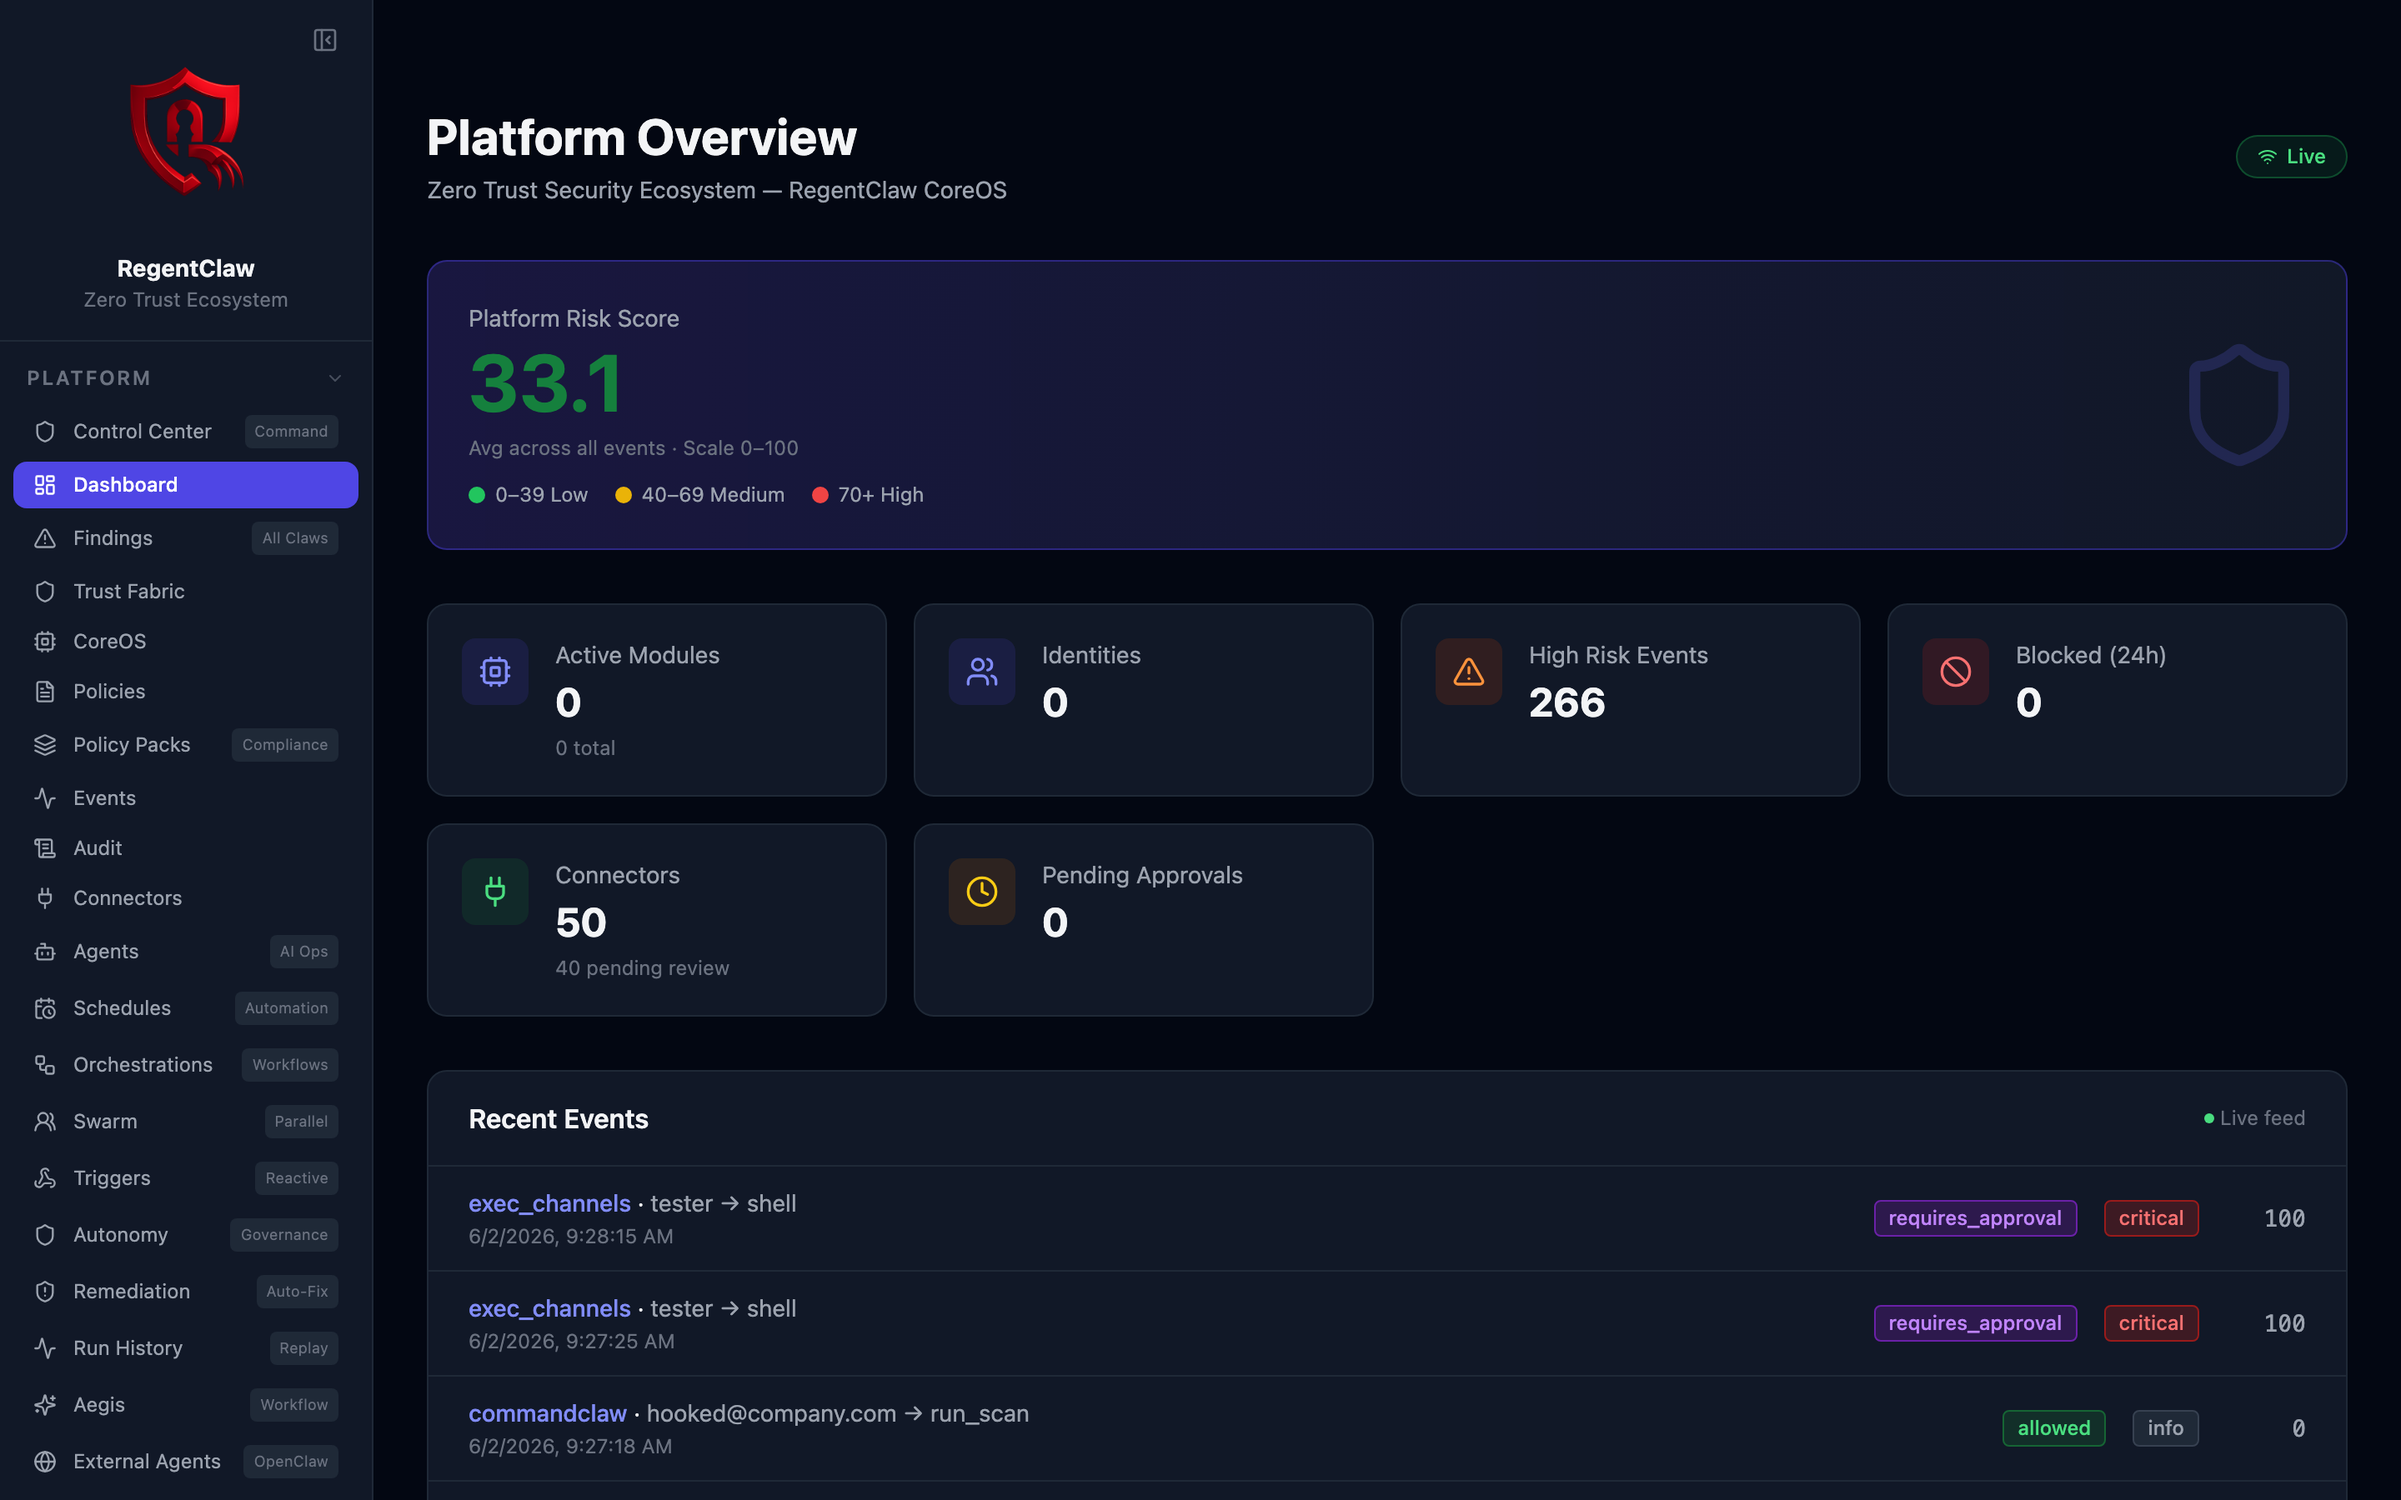
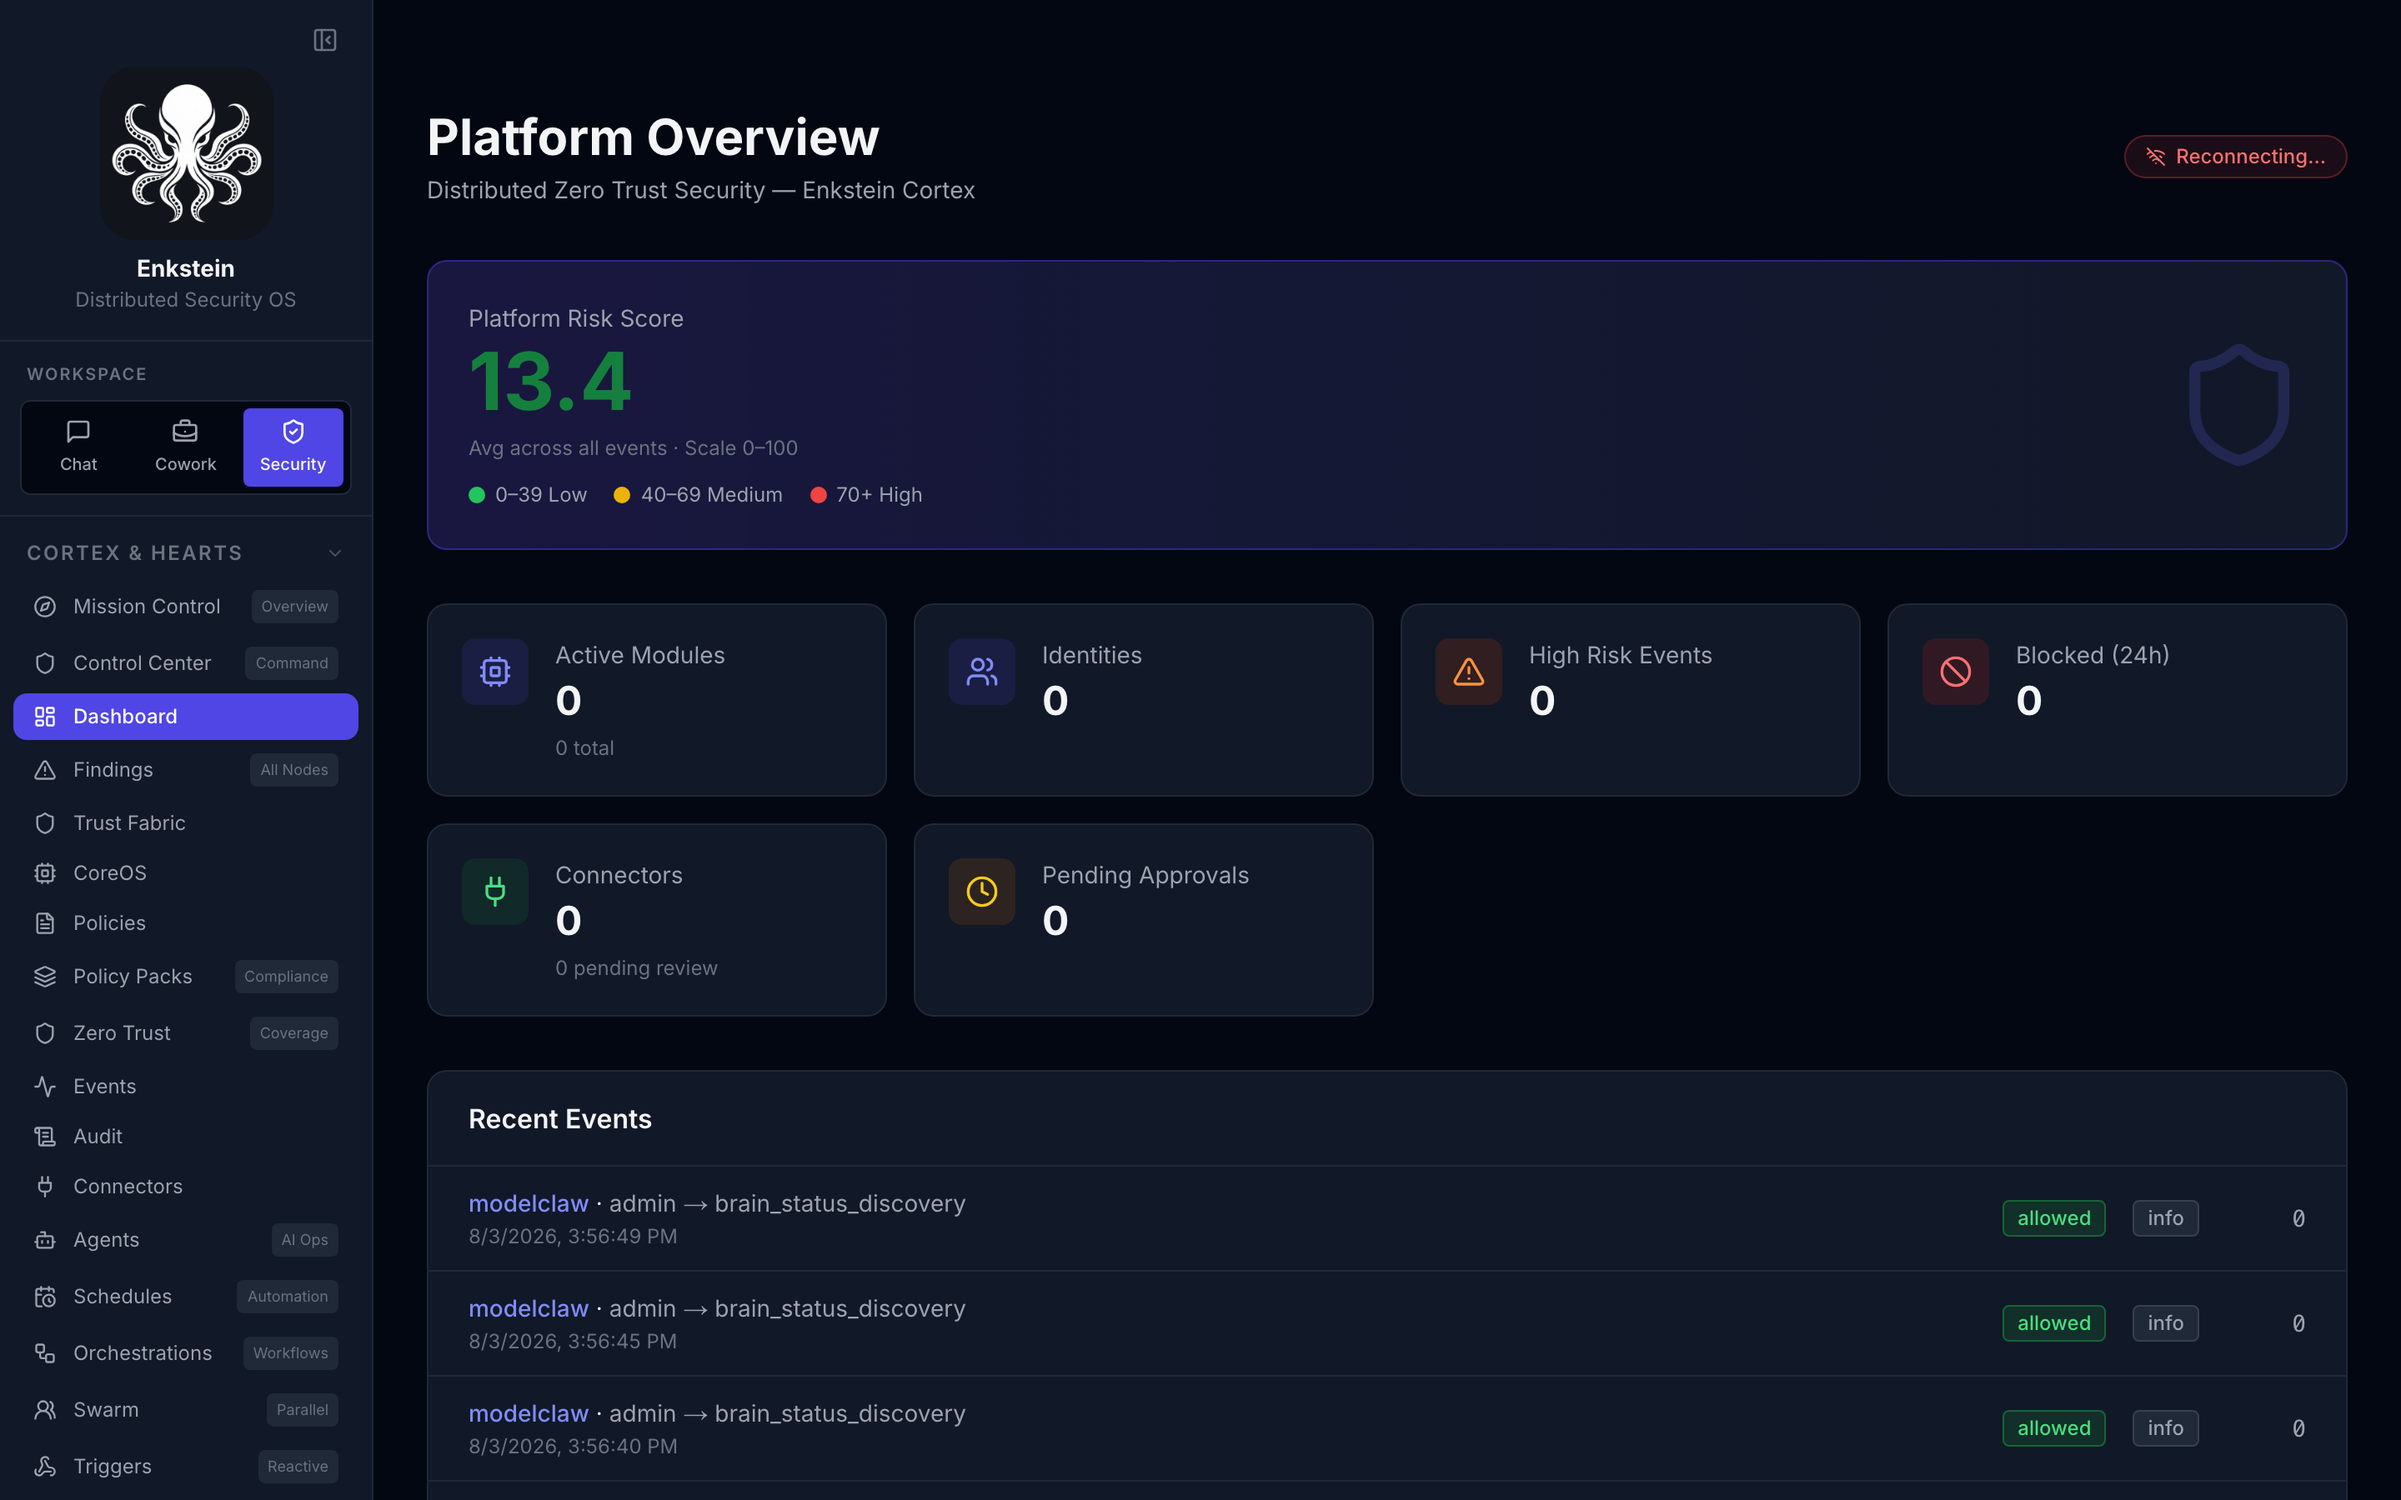
Recapture screenshots as Enkstein and fix the live event feed
Every screenshot still showed the RegentClaw logo, sidebar, and claw
naming from before the rename. Recapture all of them against the running
app, add Chat, Cowork, Brain Connections, Security, and Zero Trust, and
lead the README table with the workspace rather than the dashboard.

The capture script authenticated only /auth/me, so data calls returned
401 and the shots showed empty panels; it now uses a real signed token
and refuses to save a screenshot of the login page.

Two real bugs surfaced while doing this. The dashboard and Trust Fabric
rendered raw claw identifiers instead of Capability Node names, and the
WebSocket hardcoded port 8000 while the launcher picks a free port, so
the live feed showed Reconnecting forever. The port now comes from
/api/runtime-config.

Add a 90-second demo video script.

diff --git a/frontend/src/hooks/useWebSocket.ts b/frontend/src/hooks/useWebSocket.ts
@@ -38,13 +38,33 @@ type Handler = (data: Record<string, unknown>) => void;
 export type WSStatus = 'connecting' | 'connected' | 'disconnected' | 'failed';
 
 // The backend WebSocket URL.
-// In local dev the Next.js proxy doesn't forward WS upgrades, so we hit the
-// backend port directly.  For production, point this at your load balancer.
+// Next does not forward WS upgrades, so the browser connects to the backend
+// port directly. The packaged launcher picks a free port at start time rather
+// than always using 8000, so the port is discovered from /api/runtime-config
+// (see `resolveWsPort`) instead of being assumed. For a hosted deployment,
+// set NEXT_PUBLIC_WS_URL to the load balancer.
+let discoveredWsPort: string | null = null;
+
+export async function resolveWsPort(): Promise<void> {
+  if (discoveredWsPort || process.env.NEXT_PUBLIC_WS_URL) return;
+  try {
+    const response = await fetch('/api/runtime-config', { cache: 'no-store' });
+    if (!response.ok) return;
+    const config = await response.json();
+    if (typeof config?.wsPort === 'string') discoveredWsPort = config.wsPort;
+  } catch {
+    // Fall back to the default port below; a failed lookup must not stop the
+    // console from loading.
+  }
+}
+
 const getWebSocketConnection = (): { url: string; protocols?: string[] } => {
+  const scheme = typeof window !== 'undefined' && window.location.protocol === 'https:' ? 'wss' : 'ws';
+  const port = discoveredWsPort || '8000';
   const url = process.env.NEXT_PUBLIC_WS_URL ||
     (typeof window !== 'undefined'
-      ? `ws://${window.location.hostname}:8000/api/v1/ws`
-      : 'ws://localhost:8000/api/v1/ws');
+      ? `${scheme}://${window.location.hostname}:${port}/api/v1/ws`
+      : `ws://localhost:${port}/api/v1/ws`);
   if (typeof window === 'undefined') return { url };
   const token = getAuthToken();
   return token
@@ -117,6 +137,10 @@ export function useWebSocket(): UseWebSocketReturn {
 
     setStatus('connecting');
 
+    // Learn the launcher's chosen backend port before the first dial. Resolves
+    // immediately once known, so reconnects are not delayed.
+    void resolveWsPort().then(() => {
+    if (unmountedRef.current) return;
     try {
       const connection = getWebSocketConnection();
       const ws = connection.protocols
@@ -195,6 +219,7 @@ export function useWebSocket(): UseWebSocketReturn {
     } catch {
       // WebSocket constructor can throw in SSR / non-browser environments
     }
+    });
   }, []); // eslint-disable-line react-hooks/exhaustive-deps
 
   // Manual reconnect — resets everything and connects immediately

diff --git a/frontend/src/app/trust-fabric/page.tsx b/frontend/src/app/trust-fabric/page.tsx
@@ -16,6 +16,7 @@ import {
   Ban,
 } from 'lucide-react';
 import { apiFetch } from '@/lib/api';
+import { capabilityName } from '@/lib/capability-names';
 
 const PRINCIPLES = [
   { icon: Shield, title: 'Every Component Has Identity', desc: 'No anonymous modules, agents, or integrations. Every entity is registered with an owner.' },
@@ -295,7 +296,7 @@ export default function TrustFabricPage() {
               <tbody>
                 {(sreStatus.modules || []).map((m: any) => (
                   <tr key={m.module} className="border-b border-gray-900/80 text-gray-300">
-                    <td className="py-2 pr-3">{m.module}</td>
+                    <td className="py-2 pr-3">{capabilityName(m.module)}</td>
                     <td className="py-2 pr-3">{m.total}</td>
                     <td className="py-2 pr-3">{m.failures}</td>
                     <td className="py-2 pr-3">{(m.error_rate * 100).toFixed(1)}%</td>
@@ -531,7 +532,7 @@ export default function TrustFabricPage() {
               <tbody className="divide-y divide-gray-800">
                 {status.recent_decisions.map((decision: any) => (
                   <tr key={decision.id} className="hover:bg-gray-800/40">
-                    <td className="px-5 py-3 text-gray-200">{decision.module}</td>
+                    <td className="px-5 py-3 text-gray-200">{capabilityName(decision.module)}</td>
                     <td className="px-5 py-3 text-gray-400">{decision.actor || 'system'}</td>
                     <td className="px-5 py-3 text-gray-300">{decision.action}</td>
                     <td className="px-5 py-3">

diff --git a/frontend/src/app/dashboard/page.tsx b/frontend/src/app/dashboard/page.tsx
@@ -6,6 +6,7 @@ import RiskBadge from '@/components/RiskBadge';
 import { getDashboard } from '@/lib/api';
 import ClientDate from '@/components/ClientDate';
 import { useWebSocket } from '@/hooks/useWebSocket';
+import { capabilityName } from '@/lib/capability-names';
 
 // ── Live toast for real-time events ──────────────────────────────────────────
 interface LiveToast {
@@ -228,7 +229,7 @@ export default function DashboardPage() {
             >
               <div className="flex-1 min-w-0">
                 <p className="text-sm truncate" style={{ color: 'var(--rc-text-1)' }}>
-                  <span className="font-medium text-indigo-400">{e.module}</span>
+                  <span className="font-medium text-indigo-400">{capabilityName(e.module)}</span>
                   {' · '}
                   <span style={{ color: 'var(--rc-text-2)' }}>{e.actor} → {e.action}</span>
                 </p>

diff --git a/frontend/src/app/api/runtime-config/route.ts b/frontend/src/app/api/runtime-config/route.ts
@@ -1,0 +1,20 @@
+import { NextResponse } from 'next/server';
+
+export const dynamic = 'force-dynamic';
+
+/**
+ * Browser-visible runtime configuration.
+ *
+ * `NEXT_PUBLIC_*` values are inlined when the image is built, but the launcher
+ * picks a free backend port at start time, so the published port is not known
+ * until then. Next does not proxy WebSocket upgrades, so the client has to
+ * connect to that port directly — this endpoint is how it learns which one.
+ */
+export function GET() {
+  const explicit = process.env.PUBLIC_WS_URL;
+  const backendPort = process.env.BACKEND_PORT || '8000';
+  return NextResponse.json({
+    wsPort: backendPort,
+    wsUrl: explicit || null,
+  });
+}

diff --git a/docs/demo-video-script.md b/docs/demo-video-script.md
@@ -1,0 +1,60 @@
+# Demo Video Script — 90 seconds
+
+The one thing a viewer should leave with: **Enkstein is the governance layer
+around the AI models you already use.** Not a better chatbot, not a better
+coding agent — the thing that decides what those agents are allowed to see and
+do, and proves it afterward.
+
+Record at 1440x900, dark theme, 2x scale. Keep the cursor slow.
+
+## Before you record
+
+- [ ] `docker compose up` and confirm the UI loads
+- [ ] Sign in so no login screen appears mid-take
+- [ ] At least one Brain shows **Ready** in Brain Connections
+- [ ] A small project folder bound in Cowork, with a planted secret:
+      ```
+      AWS_ACCESS_KEY_ID=AKIAIOSFODNN7EXAMPLE
+      DB_PASSWORD=hunter2-prod-db
+      ```
+- [ ] Close other apps; hide notifications
+
+## Shot list
+
+**0:00–0:10 — The problem.** Open Cowork with the project selected. Type:
+"Review this repo and tell me what is unsafe." Do not send yet. Voiceover or
+caption: *You already use Codex or Claude for this. The question is what they
+saw on the way.*
+
+**0:10–0:25 — Bring your own brain.** Open Brain Connections. Pan slowly across
+Codex, Claude, browser sessions, and local Ollama models. Land on the line that
+says cookies and account tokens never enter Enkstein.
+
+**0:25–0:45 — Routing by sensitivity.** Back in Cowork. Change the
+classification dropdown from `internal` to `restricted`. Show the runtime group
+pinning to local. Caption: *Restricted work never leaves the machine — it is a
+policy decision, not a setting you have to remember.*
+
+**0:45–1:05 — Approval, not autonomy.** Set classification back to `internal`,
+send the review request, and let the response arrive. Expand the proposed
+changes. Show the diff and the approve control. Caption: *The model proposes.
+Enkstein writes, inside the folder you approved.*
+
+**1:05–1:20 — The receipt.** Expand the provenance record under the reply:
+which model answered, the policy outcome, what was redacted, files changed.
+This is the shot that matters most; hold it longer than feels comfortable.
+
+**1:20–1:30 — Close.** Cut to the Enkstein mark. Caption:
+*Open source. Runs on your hardware. github.com/wcoreiron-rgb/enkstein*
+
+## What not to do
+
+- Do not show the Security dashboard with empty or simulated data. A zeroed
+  risk score reads as a dead product.
+- Do not speed-run the provenance panel. It is the differentiator; everything
+  before it is setup.
+- Do not claim live connector coverage the [Maturity Matrix](maturity-matrix.md)
+  does not support. Overclaiming in a demo is the fastest way to lose a
+  security audience.
+- Do not record a take where a Brain shows "Needs setup" unless you are
+  deliberately demonstrating the setup flow.

diff --git a/README.md b/README.md
@@ -116,16 +116,16 @@ peer Plexus. You do not need any of that vocabulary to use the app; see
 
 <table>
   <tr>
-    <td width="50%"><img src="docs/screenshots/dashboard.png" alt="Platform Overview dashboard" /><br/><sub><b>Platform Overview</b> — risk score, live event feed, module &amp; connector status across the Zero Trust CoreOS.</sub></td>
-    <td width="50%"><img src="docs/screenshots/swarm.png" alt="Swarm multi-agent orchestration" /><br/><sub><b>Swarm Orchestration</b> — parallel multi-claw investigations with judge models, confidence scoring, and approval gates.</sub></td>
+    <td width="50%"><img src="docs/screenshots/cowork.png" alt="Cowork workspace" /><br/><sub><b>Cowork</b> — governed file work in a project folder you select. Pick the runtime group, executor, and whether changes auto-apply or wait for approval.</sub></td>
+    <td width="50%"><img src="docs/screenshots/brains.png" alt="Brain Connections" /><br/><sub><b>Brain Connections</b> — Codex, Claude, browser sessions, and local Ollama models side by side. Cookies and account tokens never enter Enkstein.</sub></td>
   </tr>
   <tr>
-    <td width="50%"><img src="docs/screenshots/remediation.png" alt="Autonomous Remediation engine" /><br/><sub><b>Autonomous Remediation</b> — approval queue, action history with one-click rollback, and built-in response playbooks.</sub></td>
-    <td width="50%"><img src="docs/screenshots/arcclaw.png" alt="AI Security Copilot" /><br/><sub><b>Security Copilot (AI Security)</b> — AI agent with live tool calling for CVEs, MITRE ATT&amp;CK, findings, and posture.</sub></td>
+    <td width="50%"><img src="docs/screenshots/security.png" alt="Security mode" /><br/><sub><b>Security</b> — Mission Control and the Capability Nodes, grouped into Arms that stay collapsed until you open them.</sub></td>
+    <td width="50%"><img src="docs/screenshots/trust-fabric.png" alt="Trust Fabric" /><br/><sub><b>Trust Fabric</b> — the policy decision behind every model call, tool invocation, and remediation, with the audit record.</sub></td>
   </tr>
 </table>
 
-> More views: [Trust Fabric](docs/screenshots/trust-fabric.png) · [Control Center](docs/screenshots/control-center.png) · [Connector Marketplace](docs/screenshots/connectors.png)
+> More views: [Chat](docs/screenshots/chat.png) · [Platform Overview](docs/screenshots/dashboard.png) · [Swarm](docs/screenshots/swarm.png) · [Remediation](docs/screenshots/remediation.png) · [Zero Trust coverage](docs/screenshots/zero-trust.png) · [Connectors](docs/screenshots/connectors.png)
 
 ## How Enkstein Compares
 
